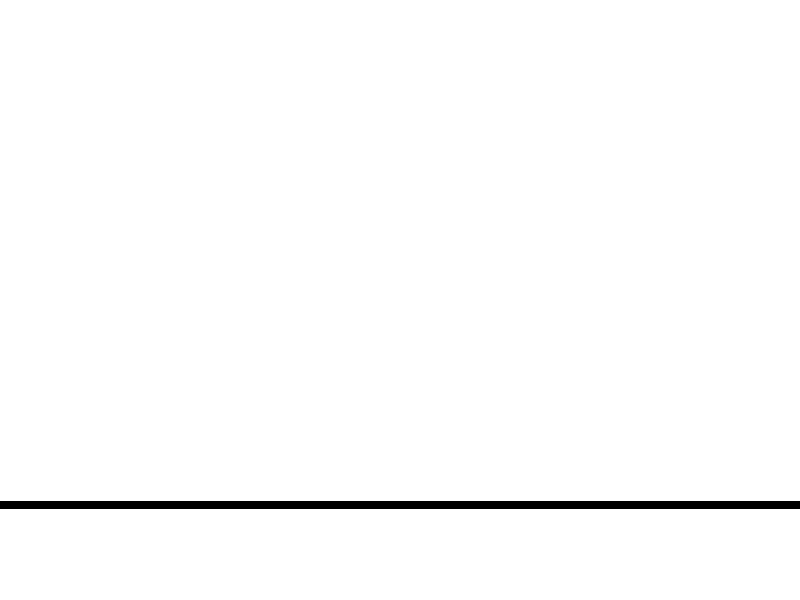
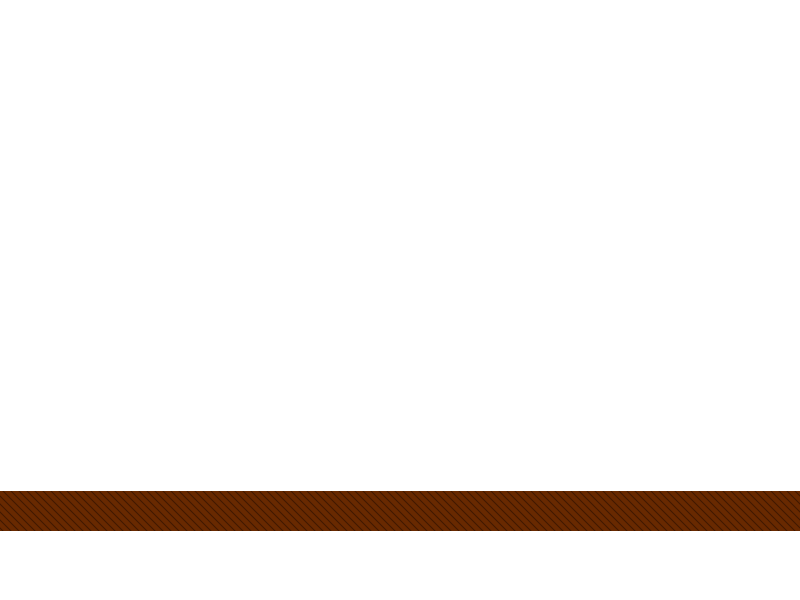
scrolling floor/platform put into background class and new image

Changed region(s): [[0.0, 0.81, 1.0, 0.9]]

diff --git a/HnS/HnS/HnS/Background.cs b/HnS/HnS/HnS/Background.cs
@@ -15,20 +15,22 @@ namespace HnS
         //
         // Only 4 textures names for 5 texture memmbers, 2 textures are loaded from the same file.
         private string m_tex1Name, m_tex2Name, m_tex3Name, m_tex4Name;
+        private string m_floorName; //name of floor texture
 
         //List of textures to create the layered background. Texture3 and Texture5 are passed the same texture name
         // (this is to create the scroll-layer effect). 
         private Texture2D m_texture1, m_texture2, m_texture3, m_texture4, m_texture5;
+        private Texture2D m_floorTex1, m_floorTex2; // Two textures for floor (both same file)
         
         //-------------
 
-        private Vector2 m_pos1, m_pos2, m_pos3, m_pos4, m_pos5;
+        private Vector2 m_pos1, m_pos2, m_pos3, m_pos4, m_pos5, m_pos6, m_pos7; //6 + 7 used for floor
        
-        private float m_speed;
+        private float m_speed, m_floorSpeed;
         
 
         //Constructor
-        public Background(string tex1Name, string tex2Name, string tex3Name, string tex4Name, float scrollSpeed)
+        public Background(string tex1Name, string tex2Name, string tex3Name, string tex4Name, string floorName, float scrollSpeed)
         {
             m_texture1 = null;
             m_texture2 = null;
@@ -39,7 +41,9 @@ namespace HnS
             m_tex2Name = tex2Name;
             m_tex3Name = tex3Name;
             m_tex4Name = tex4Name;
+            m_floorName = floorName;
             m_speed = scrollSpeed;
+            m_floorSpeed = scrollSpeed / 4;
         }
 
         //Load content
@@ -50,11 +54,15 @@ namespace HnS
             m_texture3 = contentManager.Load<Texture2D>(m_tex3Name);
             m_texture4 = contentManager.Load<Texture2D>(m_tex4Name);
             m_texture5 = contentManager.Load<Texture2D>(m_tex3Name); // Same texture file as texture 3
-            m_pos1 = new Vector2(0, 0);
-            m_pos2 = new Vector2(0, 0);
-            m_pos3 = new Vector2(0, 0);
-            m_pos4 = new Vector2(0, 0);
+            m_floorTex1 = contentManager.Load<Texture2D>(m_floorName);
+            m_floorTex2 = contentManager.Load<Texture2D>(m_floorName); // Both floor textures loaded from same file
+            m_pos1 = Vector2.Zero;
+            m_pos2 = Vector2.Zero;
+            m_pos3 = Vector2.Zero;
+            m_pos4 = Vector2.Zero;
             m_pos5 = new Vector2(m_texture3.Width, 0);
+            m_pos6 = Vector2.Zero;
+            m_pos7 = new Vector2(m_floorTex1.Width, 0);
         }
 
         public void Update(GameTime gameTime, bool moveLeft, bool moveRight)
@@ -83,17 +91,46 @@ namespace HnS
                 if (m_pos5.X >= m_texture5.Width)
                     m_pos5.X = m_pos3.X - m_texture3.Width;
             }
+
+            //Scroll floor at same speeds as above textures
+
+            if (moveRight)
+            {
+                m_pos6.X -= m_floorSpeed;
+                m_pos7.X -= m_floorSpeed;
+                if (m_pos6.X <= -(m_floorTex1.Width))
+                    m_pos6.X = m_pos7.X + m_floorTex2.Width;
+                if (m_pos7.X <= -(m_floorTex2.Width))
+                    m_pos7.X = m_pos6.X + m_floorTex1.Width;
+            }
+            else if (moveLeft)
+            {
+                m_pos6.X += m_floorSpeed;
+                m_pos7.X += m_floorSpeed;
+                if (m_pos6.X >= m_floorTex1.Width)
+                    m_pos6.X = m_pos7.X - m_floorTex2.Width;
+                if (m_pos7.X >= m_floorTex2.Width)
+                    m_pos7.X = m_pos6.X - m_floorTex1.Width;
+            }
         }
 
         public void Draw(SpriteBatch spriteBatch)
         {
+            //Draw sky and mountains
             spriteBatch.Draw(m_texture1, m_pos1, Color.White);
             spriteBatch.Draw(m_texture2, m_pos2, Color.White);
+
             //Draw texture three and five (connected, scroll textures) before
             //drawing the foreground texture (texture4)
             spriteBatch.Draw(m_texture3, m_pos3, Color.White);
             spriteBatch.Draw(m_texture5, m_pos5, Color.White);
+
+            //Draw grass texture
             spriteBatch.Draw(m_texture4, m_pos4, Color.White);
+
+            //Draw floor textures
+            spriteBatch.Draw(m_floorTex1, m_pos6, Color.White);
+            spriteBatch.Draw(m_floorTex2, m_pos7, Color.White);
         }
     }
 }

diff --git a/HnS/HnS/HnS/Game1.cs b/HnS/HnS/HnS/Game1.cs
@@ -32,7 +32,7 @@ namespace HnS
 
         //General vars
         int windowHeight = 600, windowWidth = 800;
-        int platformHeight = 502;
+        int platformHeight = 512;
         List<string> heroAssetList = new List<string>();
         List<string> enemyAssetList = new List<string>();
 
@@ -67,7 +67,7 @@ namespace HnS
             //Background
             moveLeft = false;
             moveRight = false;
-            background = new Background("background//sky", "background//mountains", "background//hills", "background//grass", 2.0f);
+            background = new Background("background//sky", "background//mountains", "background//hills", "background//grass", "platform", 2.0f);
 
             base.Initialize();
         }
@@ -75,7 +75,6 @@ namespace HnS
         protected override void LoadContent()
         {
             spriteBatch = new SpriteBatch(GraphicsDevice);
-            platformImage = Content.Load<Texture2D>("platform");
             background.LoadContent(Content);
             entityManager.createHero(new Vector2(100, platformHeight),heroAssetList);
             entityManager.createEnemy(new Vector2(700, platformHeight), enemyAssetList); 
@@ -123,10 +122,6 @@ namespace HnS
 
             //Draw Background
             background.Draw(spriteBatch);
-            //spriteBatch.Draw(background, Vector2.Zero, Color.White * 0.3f);
-
-            //Draw platform
-            spriteBatch.Draw(platformImage, Vector2.Zero, Color.White);
 
             //EntityManager - Draw all entities
             entityManager.drawAll(spriteBatch);
